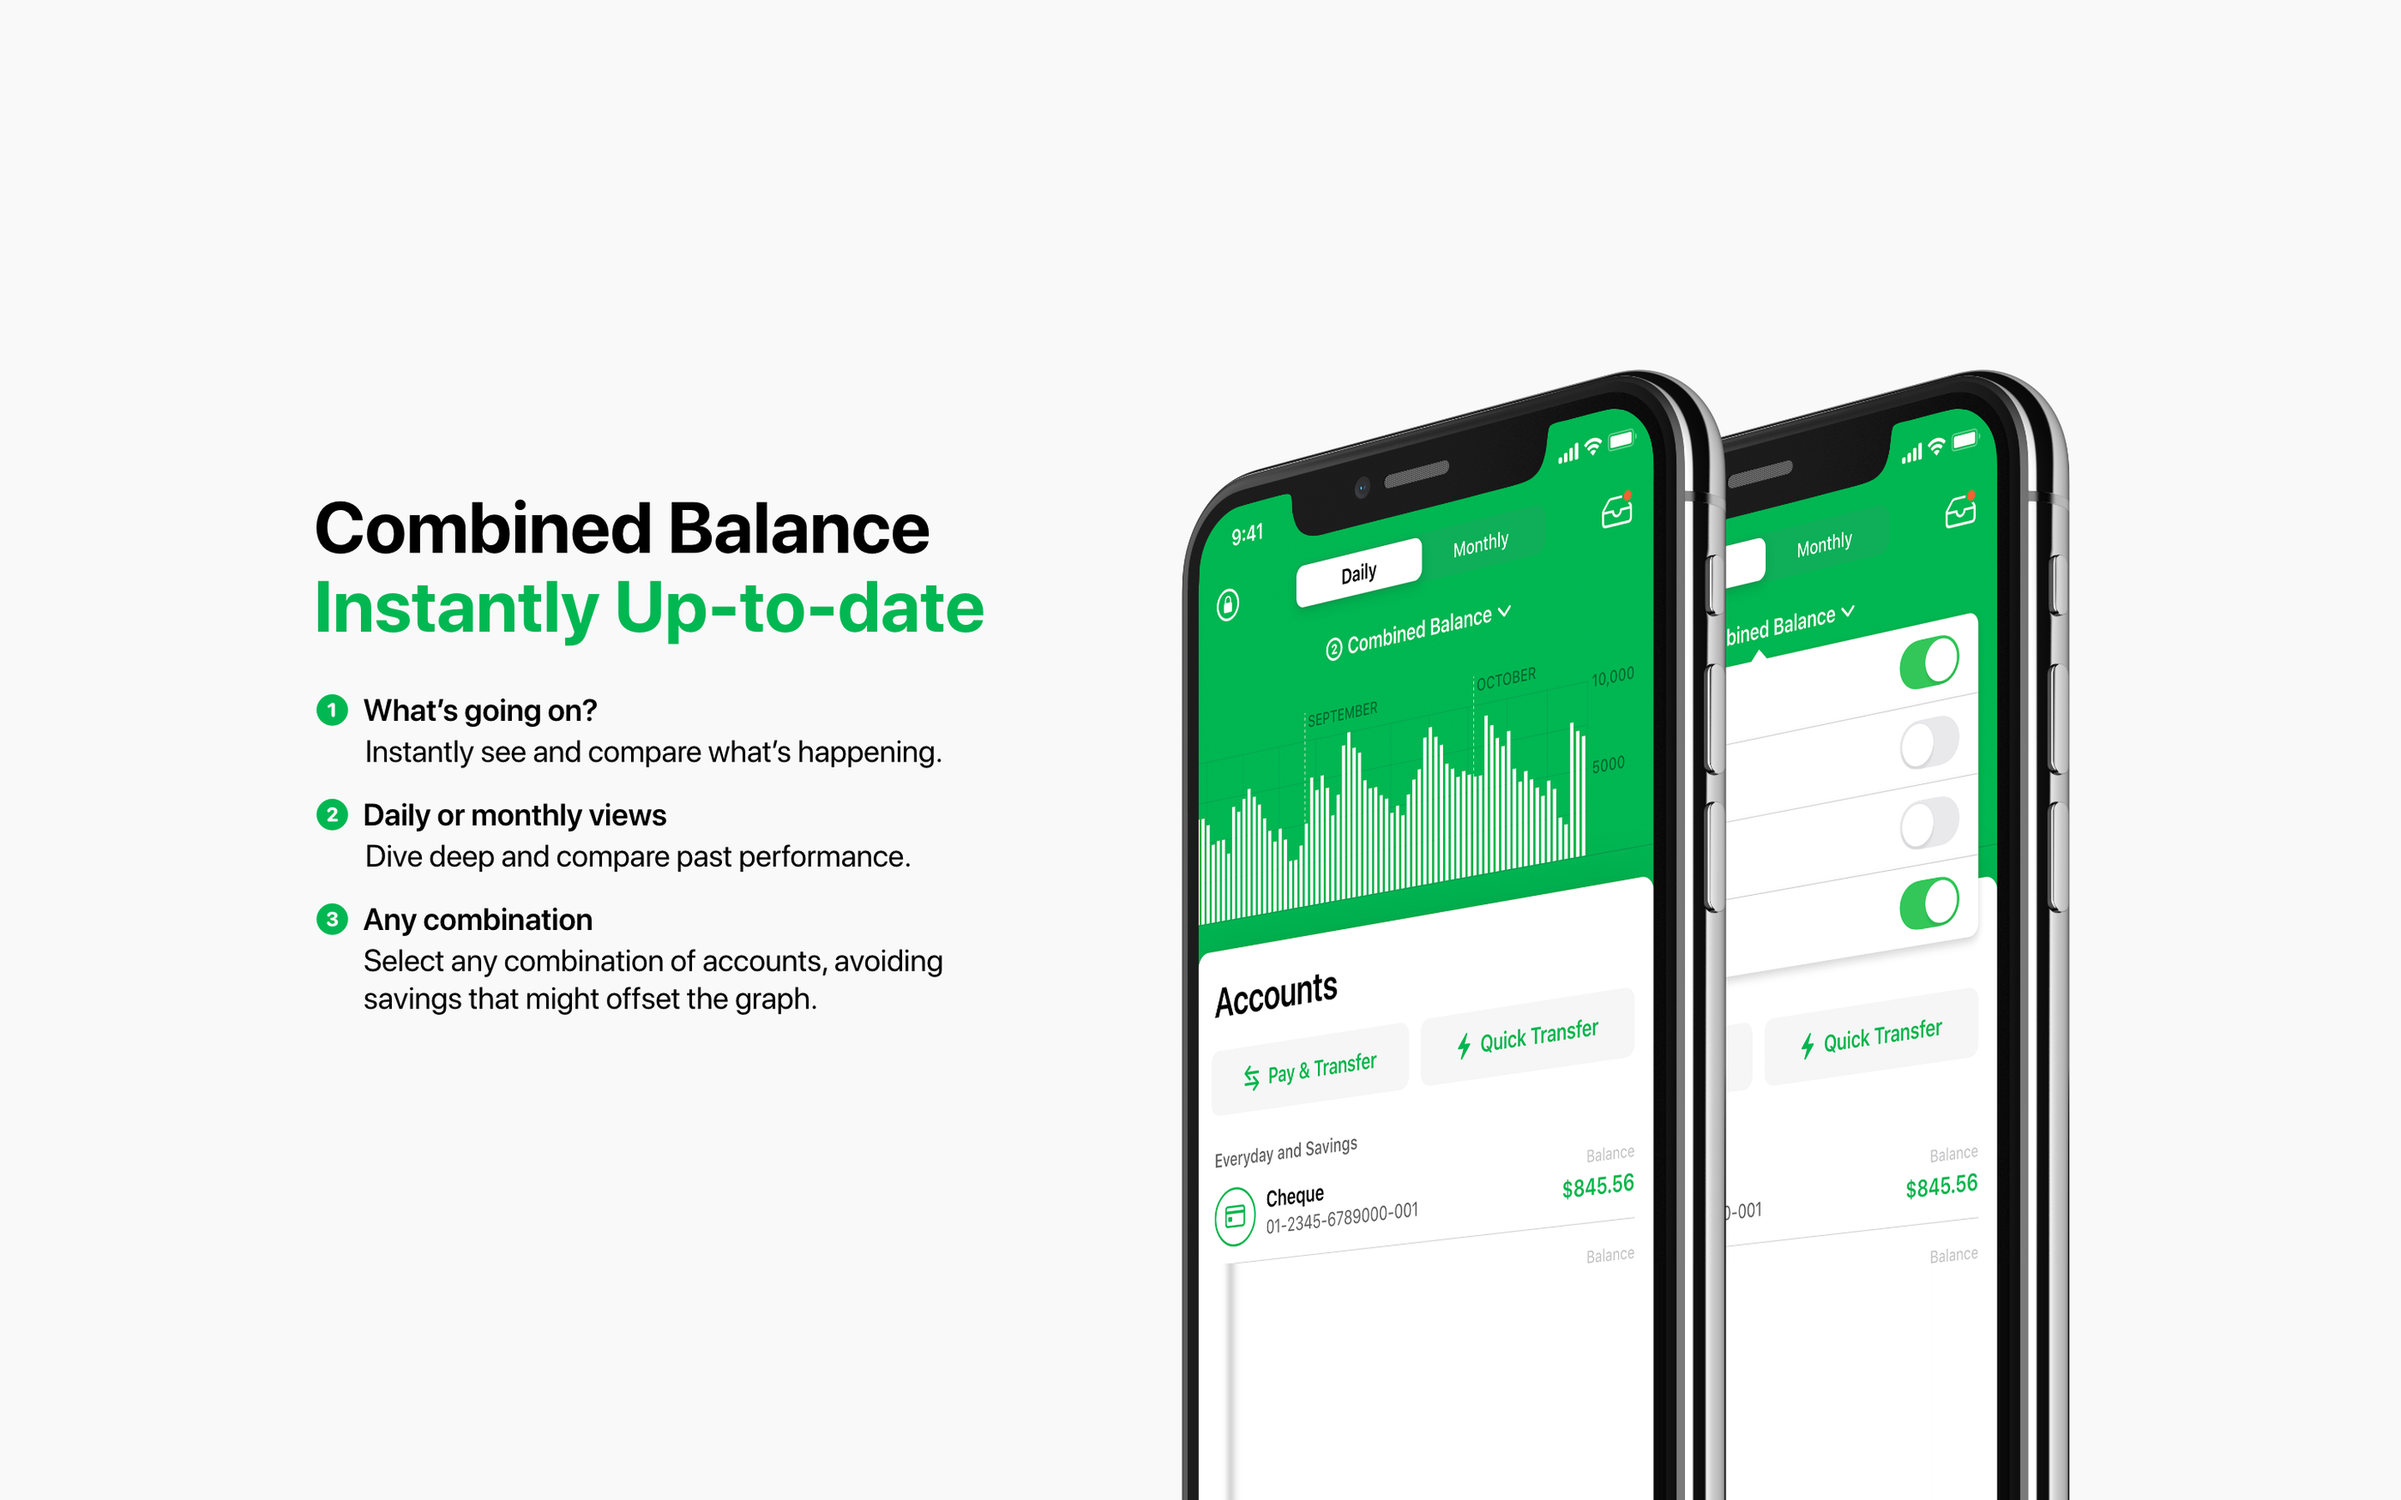
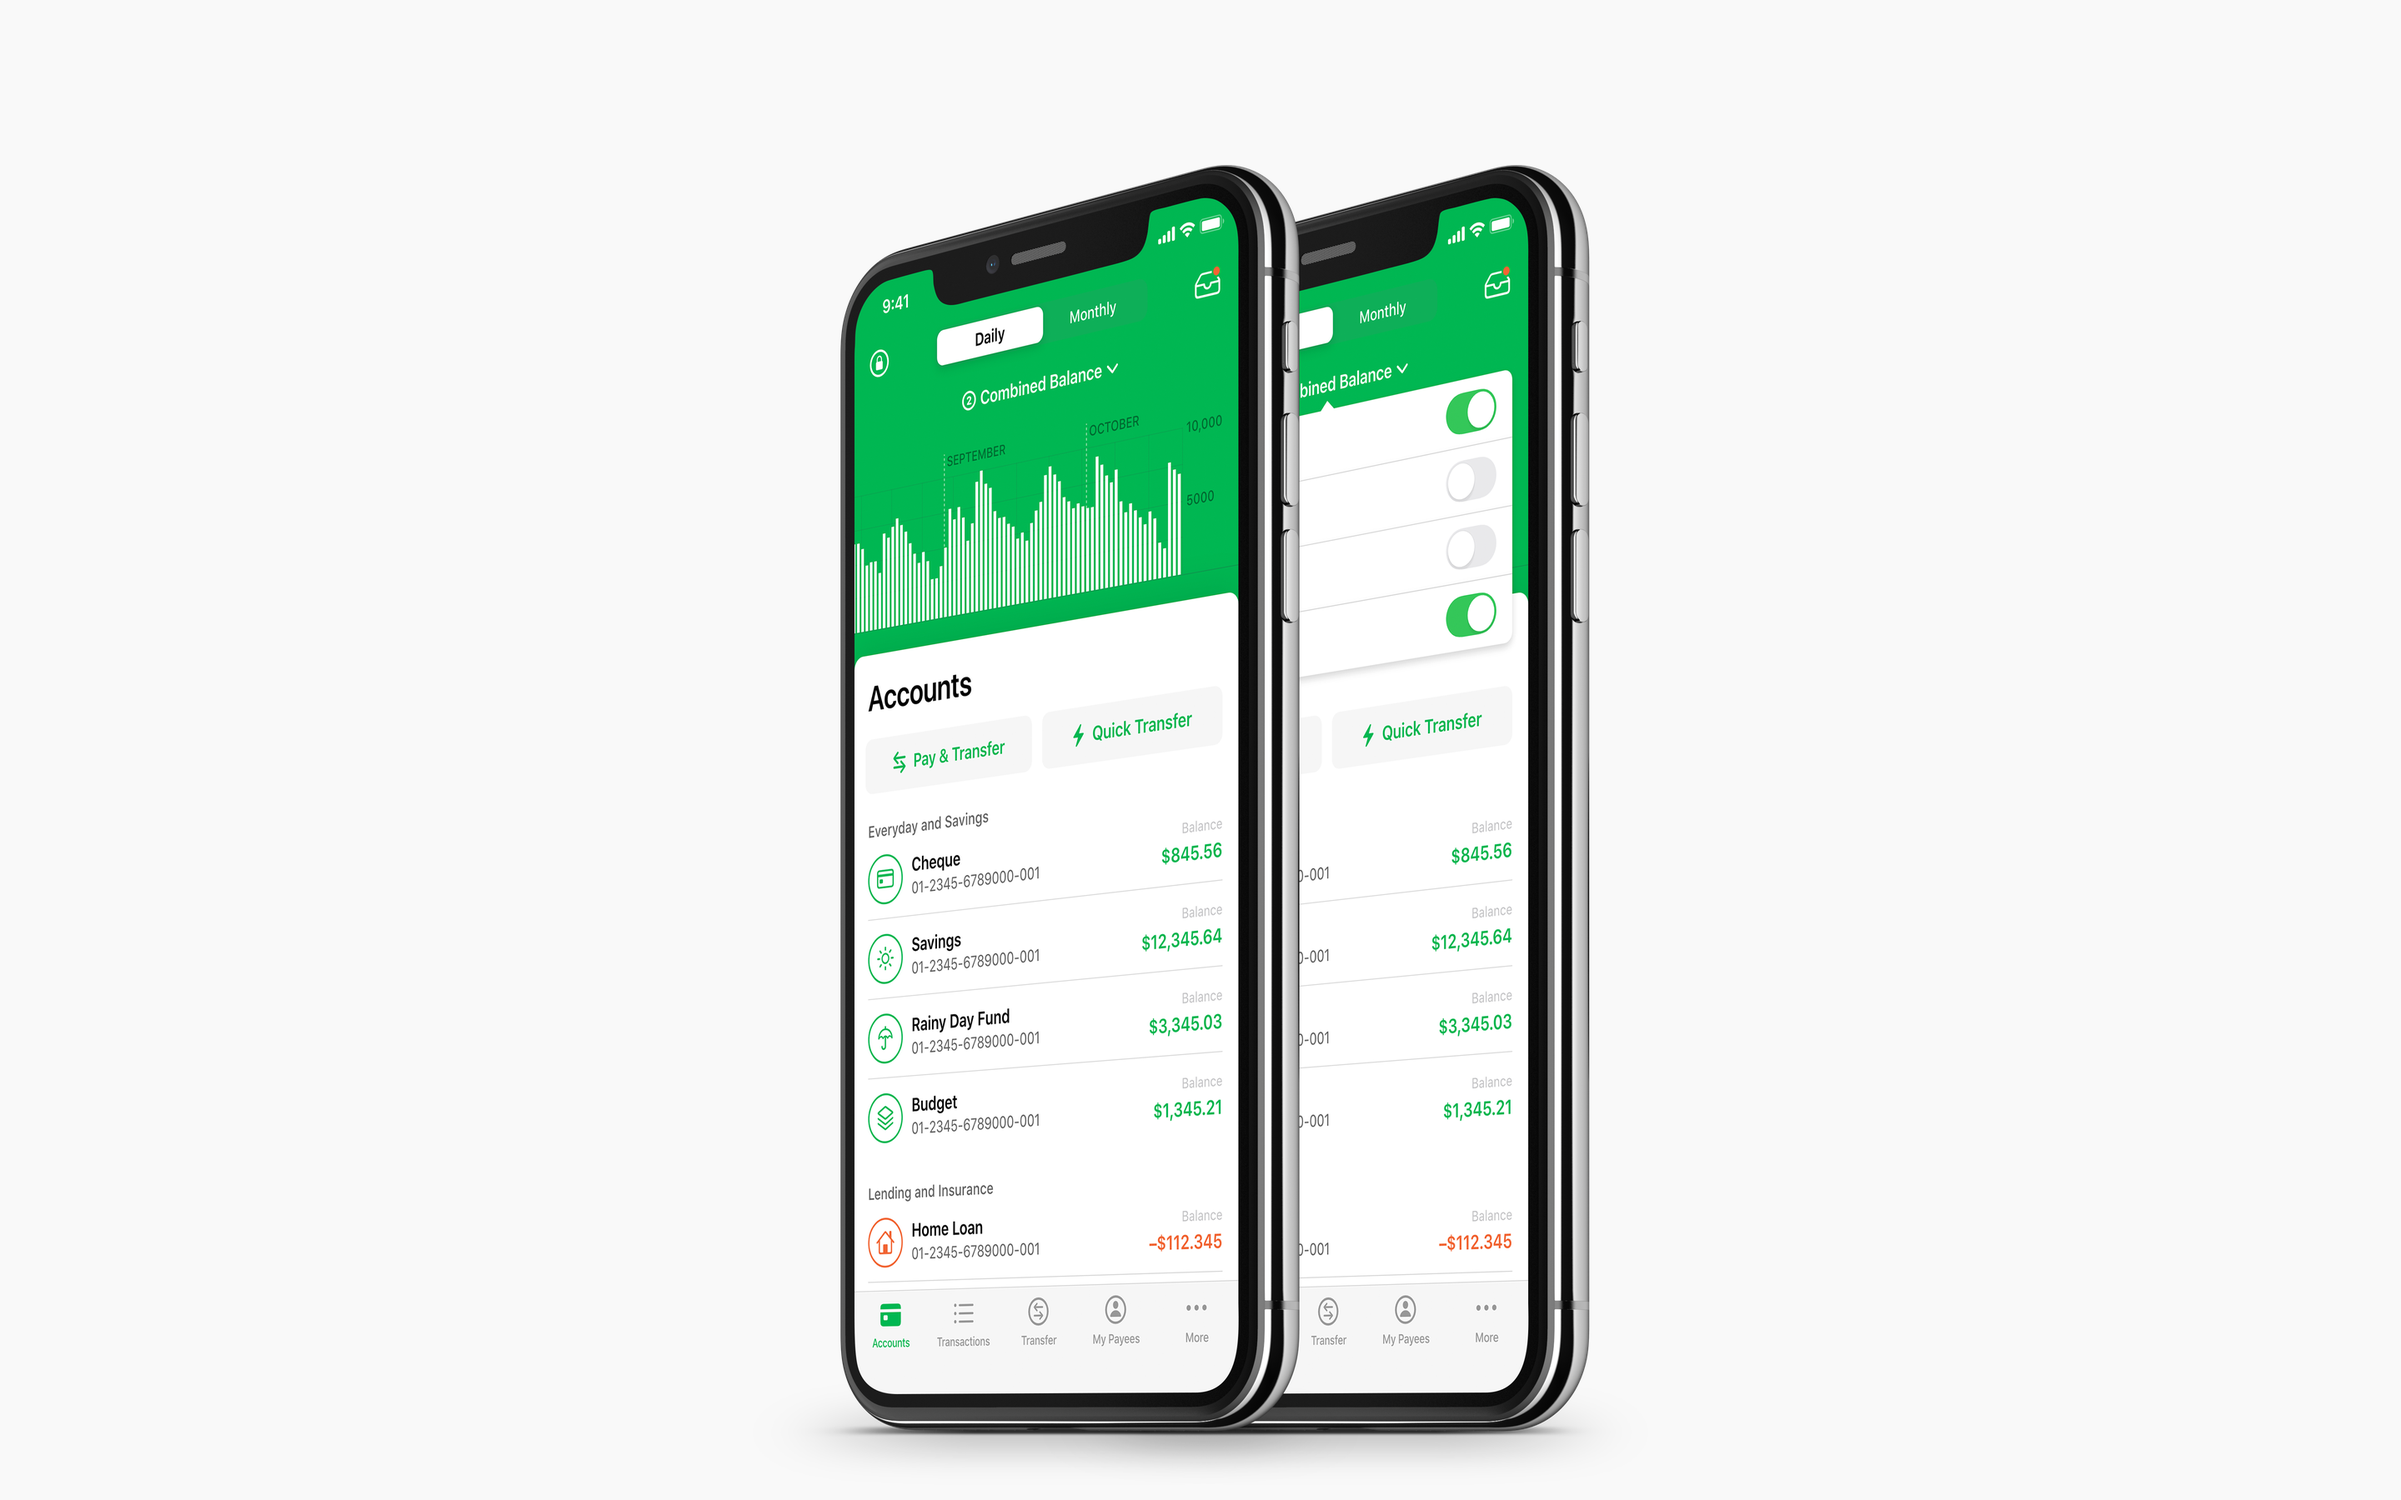
Banking App: balance and dark slides from the phone renders
Both now show the full phones on a plain background, drawn by
scripts/cases/bank-renders.py, without the boards' text.

Changed region(s): [[0.125, 0.0933, 0.875, 1.0]]

diff --git a/scripts/cases/bank-renders.py b/scripts/cases/bank-renders.py
@@ -1,0 +1,33 @@
+# Banking App slides from Robin's phone renders (transparent PNGs, 3200–4500px) in
+# "Co-operative Bank App/03_Files/", in place of cropped Behance boards. Each render is
+# trimmed to its content (shadow included) and centred on a plain background, at 16:10:
+# the boards' light grey, or black for dark mode. A slide can sit lower than centre.
+# Usage: python3 scripts/cases/bank-renders.py   (from rco-website/, needs Pillow)
+from pathlib import Path
+from PIL import Image
+
+ROOT = Path(__file__).resolve().parents[2]
+SRC = ROOT.parents[2] / "Co-operative Bank App/03_Files"
+OUT = ROOT / "src/assets/work"
+W, H = 2880, 1800
+LIGHT = (249, 249, 249)  # the Behance boards' background
+DARK = (0, 0, 0)  # the dark mode board's background
+FILL = 0.88  # share of the slide height the phones take up
+
+# (render name in 03_Files, without "HERO-iPhone-X-" and ".png"; output name; background;
+#  shift down from centre, as a share of the slide height)
+SLIDES = [
+    ("Vertikal-*-Home", "banking-app-balance", LIGHT, 0.05),
+    ("Angle-3-*-Dark-Mode", "banking-app-dark", DARK, 0),
+]
+
+for pattern, name, bg, shift in SLIDES:
+    (path,) = SRC.glob(f"HERO-iPhone-X-{pattern}.png")
+    img = Image.open(path).convert("RGBA")
+    img = img.crop(img.split()[-1].getbbox())
+    scale = min(H * FILL / img.height, W * 0.9 / img.width)
+    img = img.resize((round(img.width * scale), round(img.height * scale)), Image.LANCZOS)
+    out = Image.new("RGB", (W, H), bg)
+    out.paste(img, ((W - img.width) // 2, (H - img.height) // 2 + round(H * shift)), img)
+    out.save(OUT / f"{name}.png", optimize=True)
+    print(name, path.name, "->", out.size)

diff --git a/scripts/cases/behance-slides.py b/scripts/cases/behance-slides.py
@@ -2,7 +2,8 @@
 # drawer (src/assets/work/<project>-<n>.png, 2880x1800), from Robin's Behance boards
 # (2800px wide, saved in "03_Working files/behance/<project>/"). Each board is brought to 16:10:
 # a wider one is extended above and below in its own edge colour, a taller one is cropped
-# (centred, or from the top where the board's title sits there).
+# (centred, or from the top where the board's title sits there). Banking App's other slides
+# come from the phone renders, in bank-renders.py.
 # Usage: python3 scripts/cases/behance-slides.py   (from rco-website/, needs Pillow)
 from pathlib import Path
 from PIL import Image
@@ -17,9 +18,7 @@ W, H = 2880, 1800
 # "Quick Scan/06_Production/Behance/04 Taller.jpg": the 2800x1460 board, extended, smeared its bottom row.
 SLIDES = [
     ("banking", 1, "banking-app-hero", 0.5),
-    ("banking", 3, "banking-app-balance", 0.5),
     ("banking", 7, "banking-app-transfers", 0.5),
-    ("banking", 9, "banking-app-dark", 0.5),
     ("quickscan", "04-taller.jpg", "quickscan-hero", 0.5),
     ("quickscan", 1, "quickscan-v1", 0.0),
     ("quickscan", 5, "quickscan-flow", 0.5),
